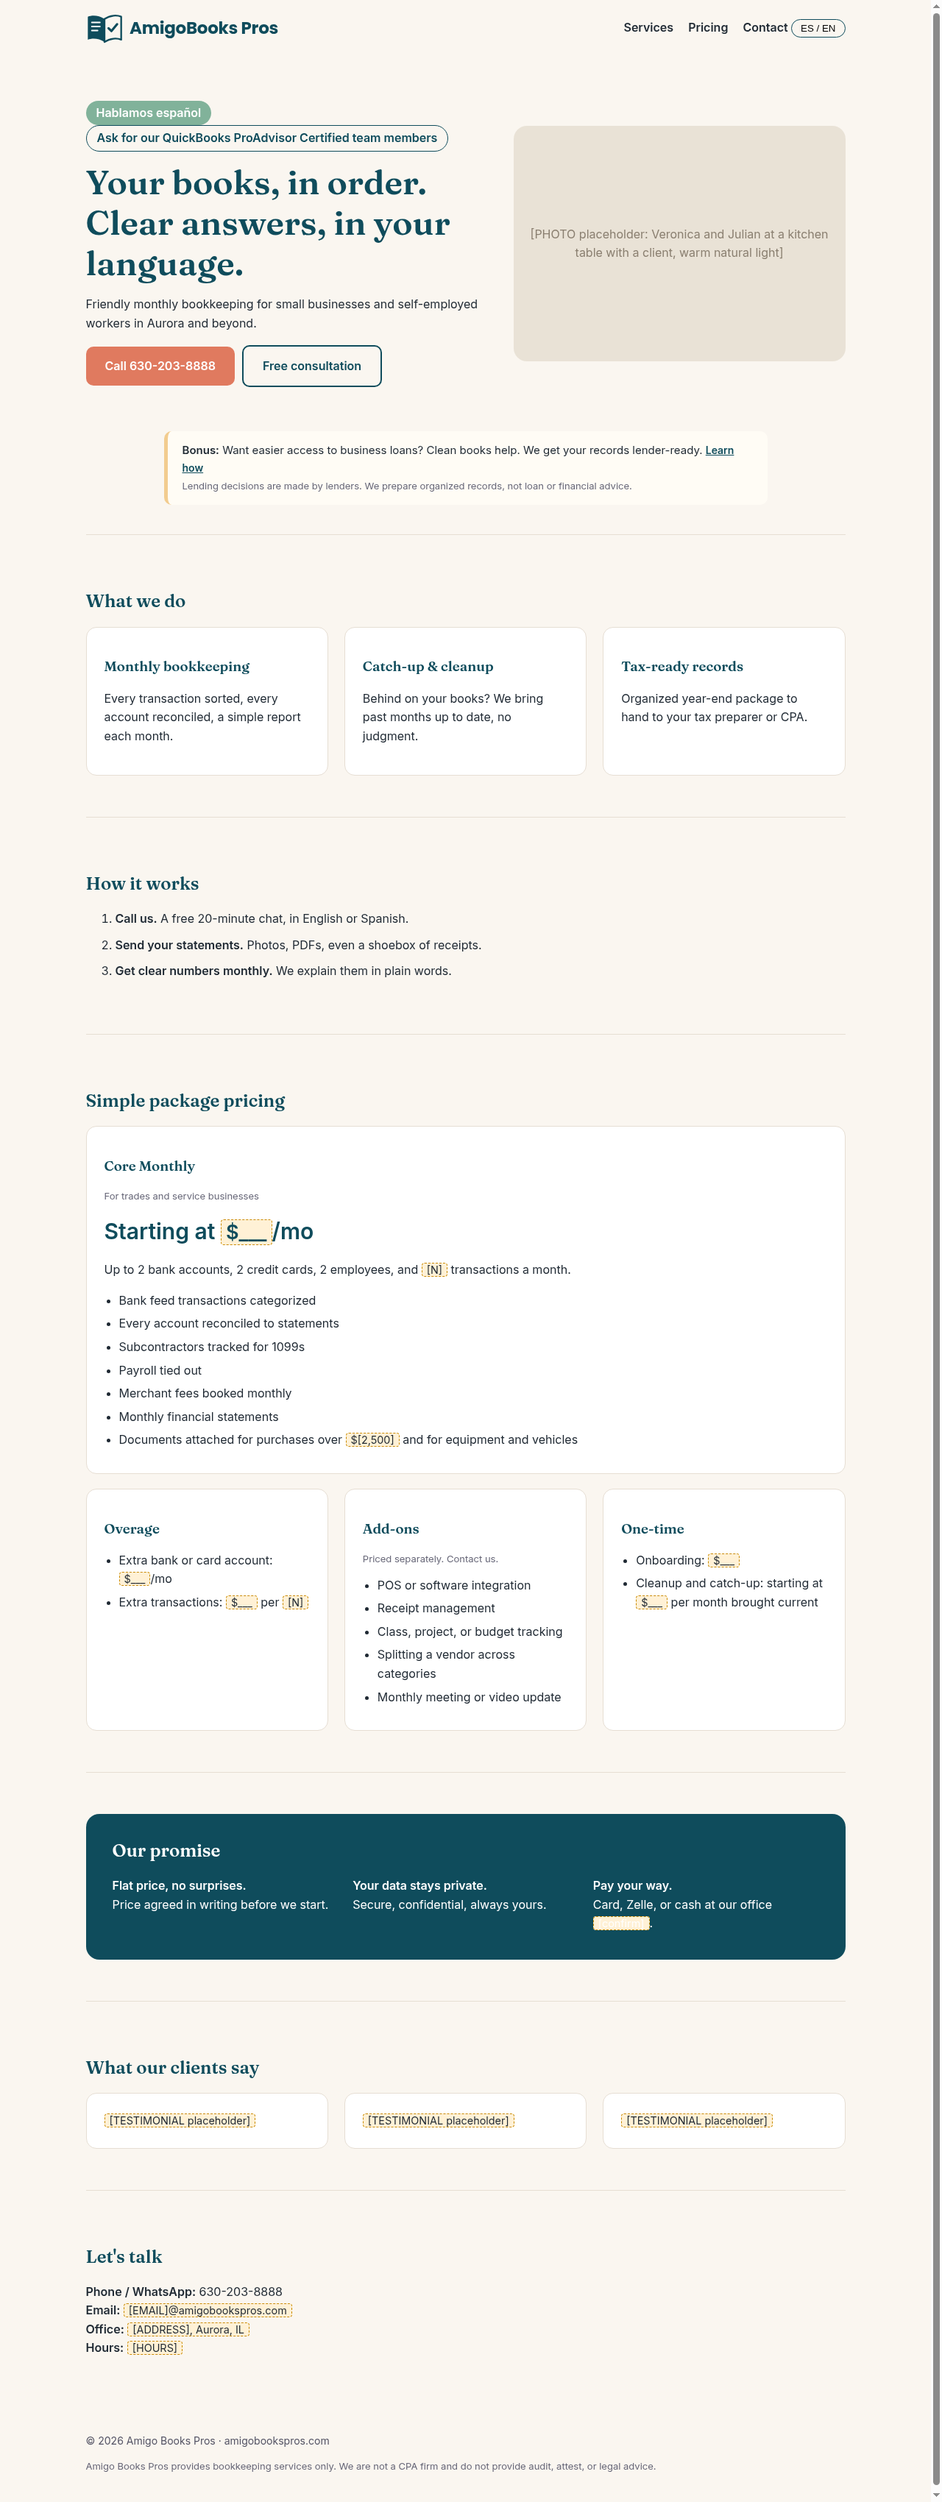
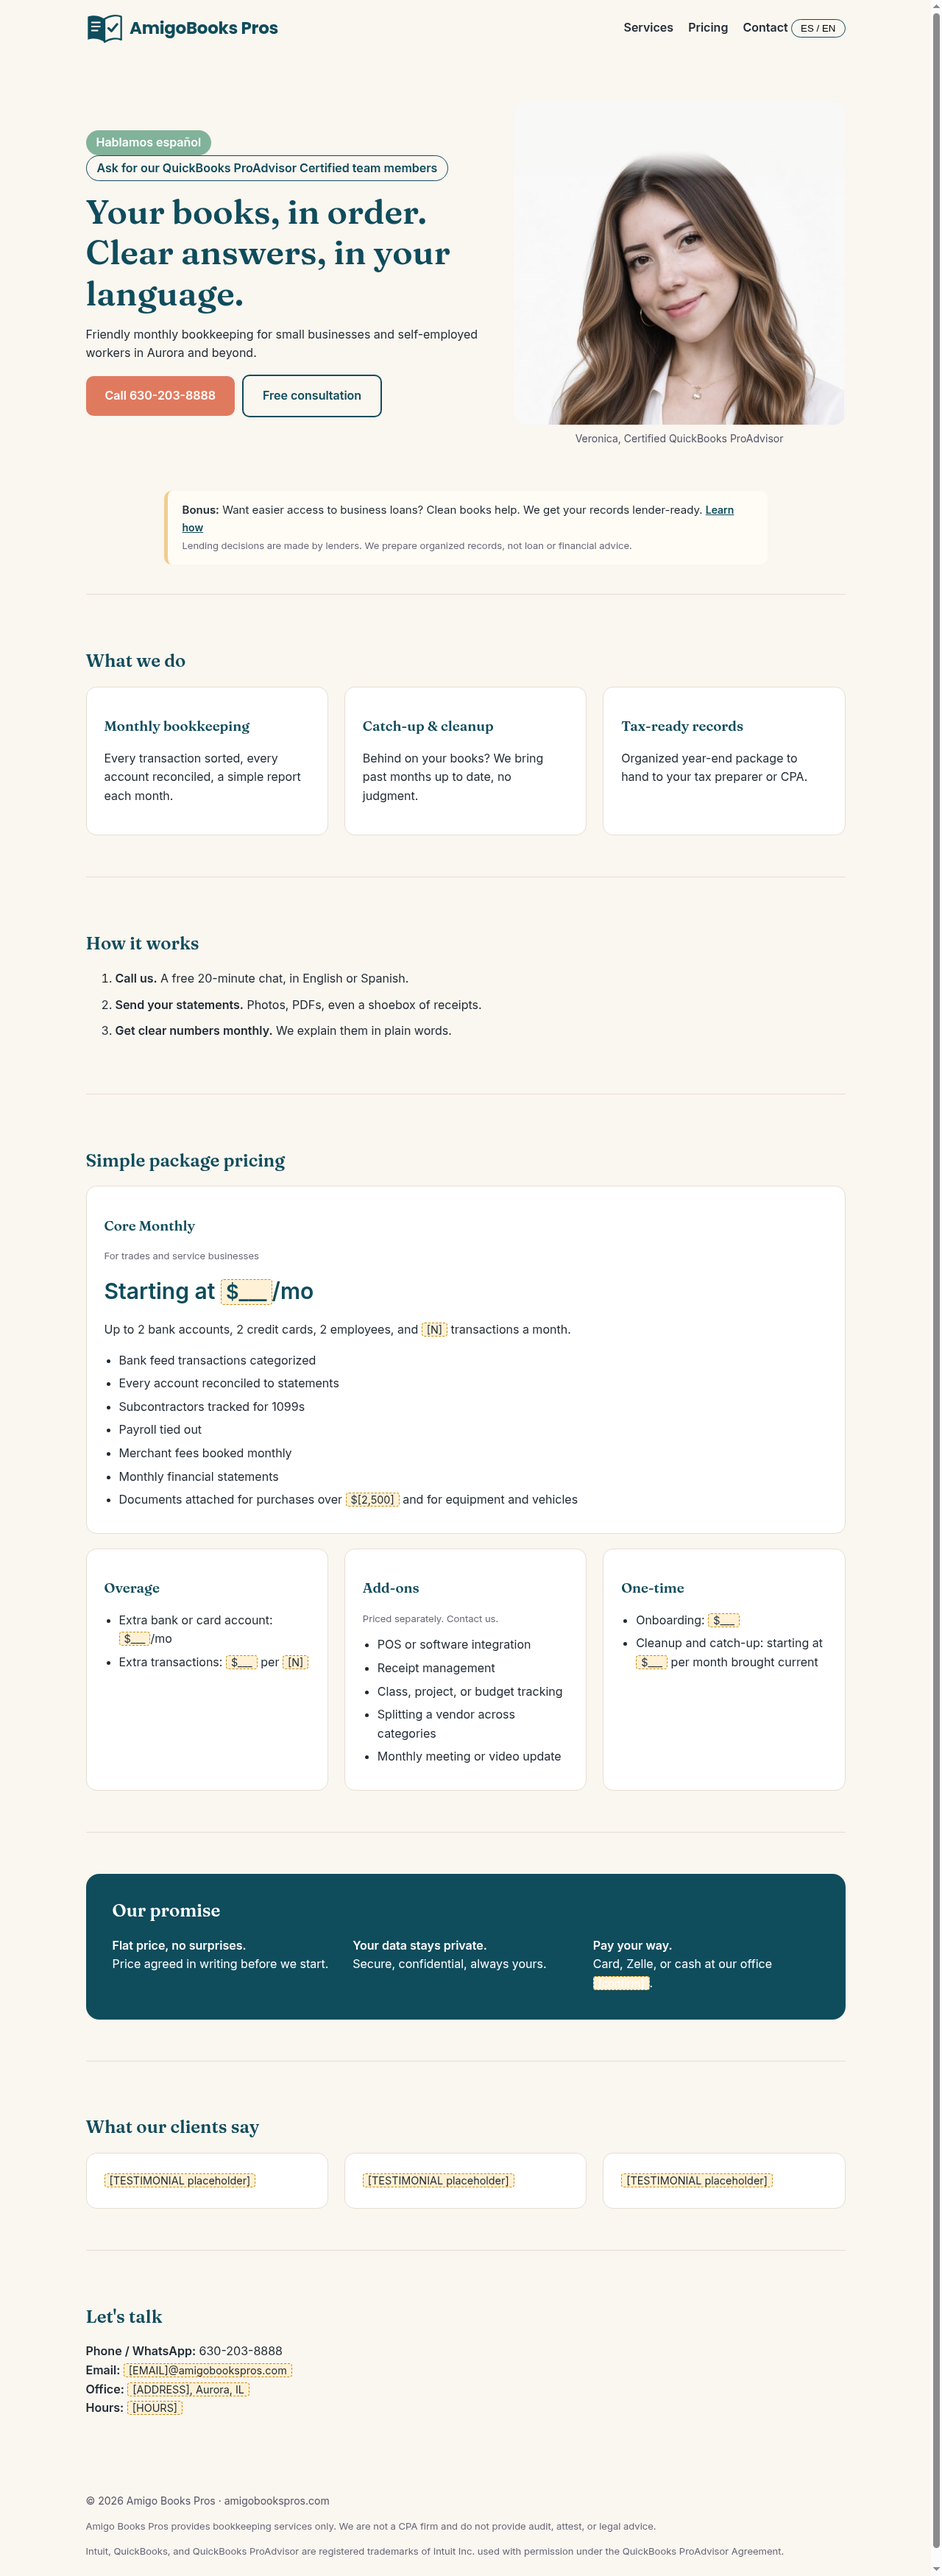
Add Veronica photo, caption, trademark notice

diff --git a/index.html b/index.html
@@ -24,7 +24,7 @@ section{padding:56px 0;border-top:1px solid var(--line)}
 .bonus{margin:0 auto 40px;max-width:820px;background:#FFFCF5;border-left:5px solid #F2CC8F;border-radius:10px;padding:14px 20px;font-size:15px}.bonus a{color:var(--teal);font-weight:600;font-size:14px}
 .disc{font-size:13px;color:#667}
 @media(max-width:800px){.hero,.g3,.promise{grid-template-columns:1fr}}
-.core{}.pl{padding-left:20px;margin:8px 0}.pl li{margin-bottom:6px}</style></head><body>
+.core{}.pl{padding-left:20px;margin:8px 0}.pl li{margin-bottom:6px}.vphoto{margin:0}.vphoto img{width:100%;height:440px;object-fit:cover;object-position:50% 0;border-radius:16px;display:block}.vphoto figcaption{font-size:14px;color:#556;margin-top:8px;text-align:center}</style></head><body>
 <div class="wrap">
 <header><a class="logo" href="#" aria-label="AmigoBooks Pros"><svg viewBox="0 0 64 52" width="50" aria-hidden="true"><path d="M32 10 C22 3 10 3 3 6 V46 C10 43 22 43 32 50Z" fill="#0F4C5C"/><path d="M32 10 C42 3 54 3 61 6 V46 C54 43 42 43 32 50Z" fill="none" stroke="#0F4C5C" stroke-width="3" stroke-linejoin="round"/><path d="M10 16h14M10 23h14M10 30h10" stroke="#fff" stroke-width="2.6" stroke-linecap="round"/><path d="M39 26l5 5 10-12" stroke="#0F4C5C" stroke-width="4" fill="none" stroke-linecap="round" stroke-linejoin="round"/></svg><span>AmigoBooks Pros</span></a>
 <nav><a href="#services" data-en="Services" data-es="Servicios">Services</a><a href="#pricing" data-en="Pricing" data-es="Precios">Pricing</a><a href="#contact" data-en="Contact" data-es="Contacto">Contact</a> <button class="tog" onclick="t()" aria-label="Español / English">ES / EN</button></nav></header>
@@ -33,7 +33,7 @@ section{padding:56px 0;border-top:1px solid var(--line)}
 <h1 data-en="Your books, in order. Clear answers, in your language." data-es="Tus libros en orden. Respuestas claras, en tu idioma.">Your books, in order. Clear answers, in your language.</h1>
 <p data-en="Friendly monthly bookkeeping for small businesses and self-employed workers in Aurora and beyond." data-es="Contabilidad mensual amigable para pequeños negocios y trabajadores independientes en Aurora y sus alrededores.">Friendly monthly bookkeeping for small businesses and self-employed workers in Aurora and beyond.</p>
 <a class="btn" href="tel:6302038888" data-en="Call 630-203-8888" data-es="Llama al 630-203-8888">Call 630-203-8888</a><a class="btn o" href="#contact" data-en="Free consultation" data-es="Consulta gratis">Free consultation</a></div>
-<div class="img" data-en="[PHOTO placeholder: Veronica and Julian at a kitchen table with a client, warm natural light]" data-es="[Foto pendiente: Veronica y Julian en una mesa de cocina con un cliente, luz natural cálida]">[PHOTO placeholder: Veronica and Julian at a kitchen table with a client, warm natural light]</div></div>
+<figure class="vphoto"><img src="veronica.jpg" alt="Veronica" width="800" height="1053"><figcaption data-en="Veronica, Certified QuickBooks ProAdvisor" data-es="Veronica, asesora certificada QuickBooks ProAdvisor">Veronica, Certified QuickBooks ProAdvisor</figcaption></figure></div>
 
 <div class="bonus" data-en="&lt;b&gt;Bonus:&lt;/b&gt; Want easier access to business loans? Clean books help. We get your records lender-ready. &lt;a href=&quot;#services&quot;&gt;Learn how&lt;/a&gt;&lt;br&gt;&lt;small class=&quot;disc&quot;&gt;Lending decisions are made by lenders. We prepare organized records, not loan or financial advice.&lt;/small&gt;" data-es="&lt;b&gt;Extra:&lt;/b&gt; ¿Quieres llegar mejor preparado a tu banco? Libros limpios, mejores conversaciones con tu banco. Dejamos tus registros listos para presentarlos. &lt;a href=&quot;#services&quot;&gt;Conoce cómo&lt;/a&gt;&lt;br&gt;&lt;small class=&quot;disc&quot;&gt;Las decisiones de crédito las toman los bancos. Nosotros preparamos registros organizados, no damos asesoría financiera ni de préstamos.&lt;/small&gt;"><b>Bonus:</b> Want easier access to business loans? Clean books help. We get your records lender-ready. <a href="#services">Learn how</a><br><small class="disc">Lending decisions are made by lenders. We prepare organized records, not loan or financial advice.</small></div>
 
@@ -67,7 +67,7 @@ section{padding:56px 0;border-top:1px solid var(--line)}
 
 <section id="contact"><h2 data-en="Let&#x27;s talk" data-es="Hablemos">Let's talk</h2>
 <p data-en="&lt;b&gt;Phone / WhatsApp:&lt;/b&gt; 630-203-8888&lt;br&gt;&lt;b&gt;Email:&lt;/b&gt; &lt;span class=&quot;ph&quot;&gt;[EMAIL]@amigobookspros.com&lt;/span&gt;&lt;br&gt;&lt;b&gt;Office:&lt;/b&gt; &lt;span class=&quot;ph&quot;&gt;[ADDRESS], Aurora, IL&lt;/span&gt;&lt;br&gt;&lt;b&gt;Hours:&lt;/b&gt; &lt;span class=&quot;ph&quot;&gt;[HOURS]&lt;/span&gt;" data-es="&lt;b&gt;Teléfono / WhatsApp:&lt;/b&gt; 630-203-8888&lt;br&gt;&lt;b&gt;Correo:&lt;/b&gt; &lt;span class=&quot;ph&quot;&gt;[EMAIL]@amigobookspros.com&lt;/span&gt;&lt;br&gt;&lt;b&gt;Oficina:&lt;/b&gt; &lt;span class=&quot;ph&quot;&gt;[DIRECCIÓN], Aurora, IL&lt;/span&gt;&lt;br&gt;&lt;b&gt;Horario:&lt;/b&gt; &lt;span class=&quot;ph&quot;&gt;[HORARIO]&lt;/span&gt;"><b>Phone / WhatsApp:</b> 630-203-8888<br><b>Email:</b> <span class="ph">[EMAIL]@amigobookspros.com</span><br><b>Office:</b> <span class="ph">[ADDRESS], Aurora, IL</span><br><b>Hours:</b> <span class="ph">[HOURS]</span></p></section>
-<footer>© 2026 Amigo Books Pros · amigobookspros.com<p class="disc" data-en="Amigo Books Pros provides bookkeeping services only. We are not a CPA firm and do not provide audit, attest, or legal advice." data-es="Amigo Books Pros ofrece únicamente servicios de contabilidad (bookkeeping). No somos una firma de CPA y no ofrecemos servicios de auditoría, certificación ni asesoría legal.">Amigo Books Pros provides bookkeeping services only. We are not a CPA firm and do not provide audit, attest, or legal advice.</p></footer></div>
+<footer>© 2026 Amigo Books Pros · amigobookspros.com<p class="disc" data-en="Amigo Books Pros provides bookkeeping services only. We are not a CPA firm and do not provide audit, attest, or legal advice." data-es="Amigo Books Pros ofrece únicamente servicios de contabilidad (bookkeeping). No somos una firma de CPA y no ofrecemos servicios de auditoría, certificación ni asesoría legal.">Amigo Books Pros provides bookkeeping services only. We are not a CPA firm and do not provide audit, attest, or legal advice.</p><p class="disc" data-en="Intuit, QuickBooks, and QuickBooks ProAdvisor are registered trademarks of Intuit Inc. used with permission under the QuickBooks ProAdvisor Agreement." data-es="Intuit, QuickBooks y QuickBooks ProAdvisor son marcas registradas de Intuit Inc., usadas con permiso conforme al Acuerdo QuickBooks ProAdvisor.">Intuit, QuickBooks, and QuickBooks ProAdvisor are registered trademarks of Intuit Inc. used with permission under the QuickBooks ProAdvisor Agreement.</p></footer></div>
 <script>function setLang(l){document.documentElement.lang=l;document.querySelectorAll('[data-es]').forEach(e=>e.innerHTML=l=='es'?e.dataset.es:e.dataset.en);try{localStorage.setItem('abpLang',l)}catch(e){}}
 function t(){setLang(document.documentElement.lang=='es'?'en':'es')}
 var _l=null;try{_l=localStorage.getItem('abpLang')}catch(e){}if(new URLSearchParams(location.search).get('lang'))_l=new URLSearchParams(location.search).get('lang');setLang(_l=='es'?'es':'en');</script>
